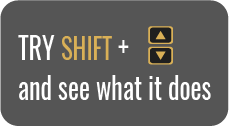
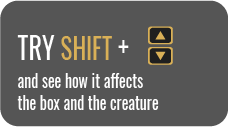
changes to LEVEL 2

diff --git a/cityoflight/core/src/edu/cornell/gdiac/cityoflight/DrawHelper.java b/cityoflight/core/src/edu/cornell/gdiac/cityoflight/DrawHelper.java
@@ -162,6 +162,7 @@ public class DrawHelper {
             TextureRegion level_two_here = JsonAssetManager.getInstance().getEntry("level_two_here", TextureRegion.class);
             TextureRegion level_two_disappear = JsonAssetManager.getInstance().getEntry("level_two_disappear", TextureRegion.class);
             TextureRegion level_two_boxhere = JsonAssetManager.getInstance().getEntry("level_two_boxhere", TextureRegion.class);
+            TextureRegion level_two_push = JsonAssetManager.getInstance().getEntry("level_two_push", TextureRegion.class);
 
             if (level.getBox().getDoesExist()){
                 if (level.getBox().getDeactivated() && level.getBox().getPosition().x < 10){
@@ -172,7 +173,12 @@ public class DrawHelper {
                     canvas.draw(level_two_here, 500, 400);
                     canvas.end();
                 }
-                if (level.getAnnette().getPosition().x > 4 && level.getAnnette().getPosition().x < 5){
+                if (level.getAnnette().getPosition().x > 3 && level.getAnnette().getPosition().x < 4){
+                    canvas.begin(level.oTran);
+                    canvas.draw(level_two_push, 150, 425);
+                    canvas.end();
+                }
+                if (level.getAnnette().getPosition().x >= 4 && level.getAnnette().getPosition().x < 5){
                     canvas.begin(level.oTran);
                     canvas.draw(level_two_single, 150, 425);
                     canvas.draw(level_two_tail, 150, 100);
